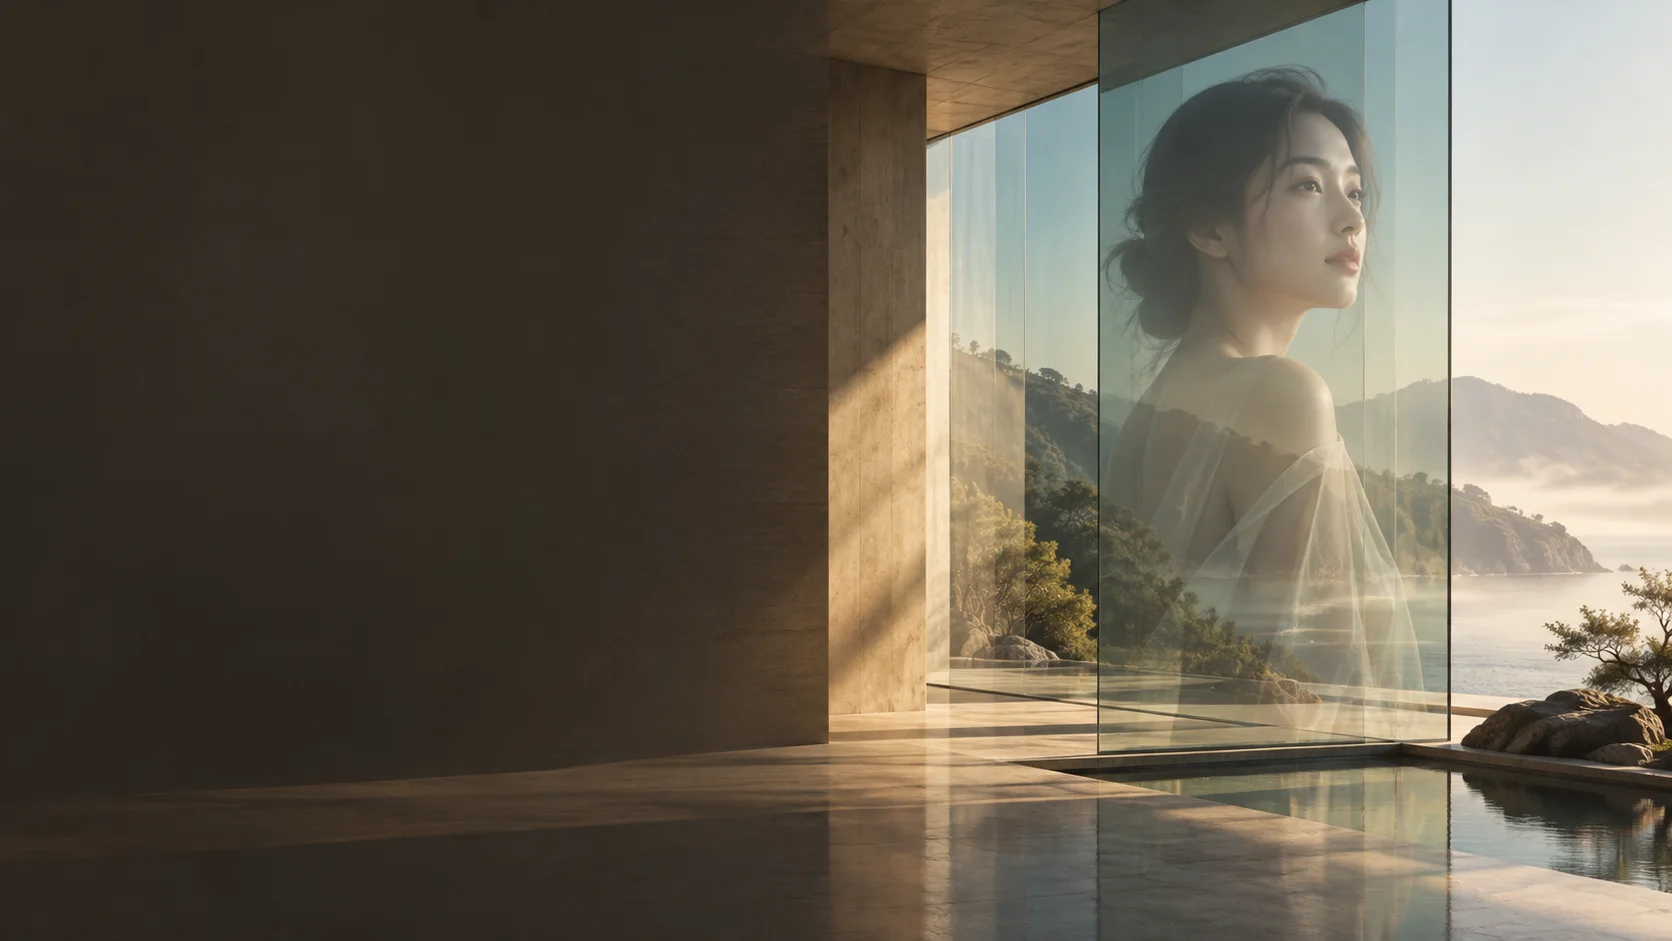
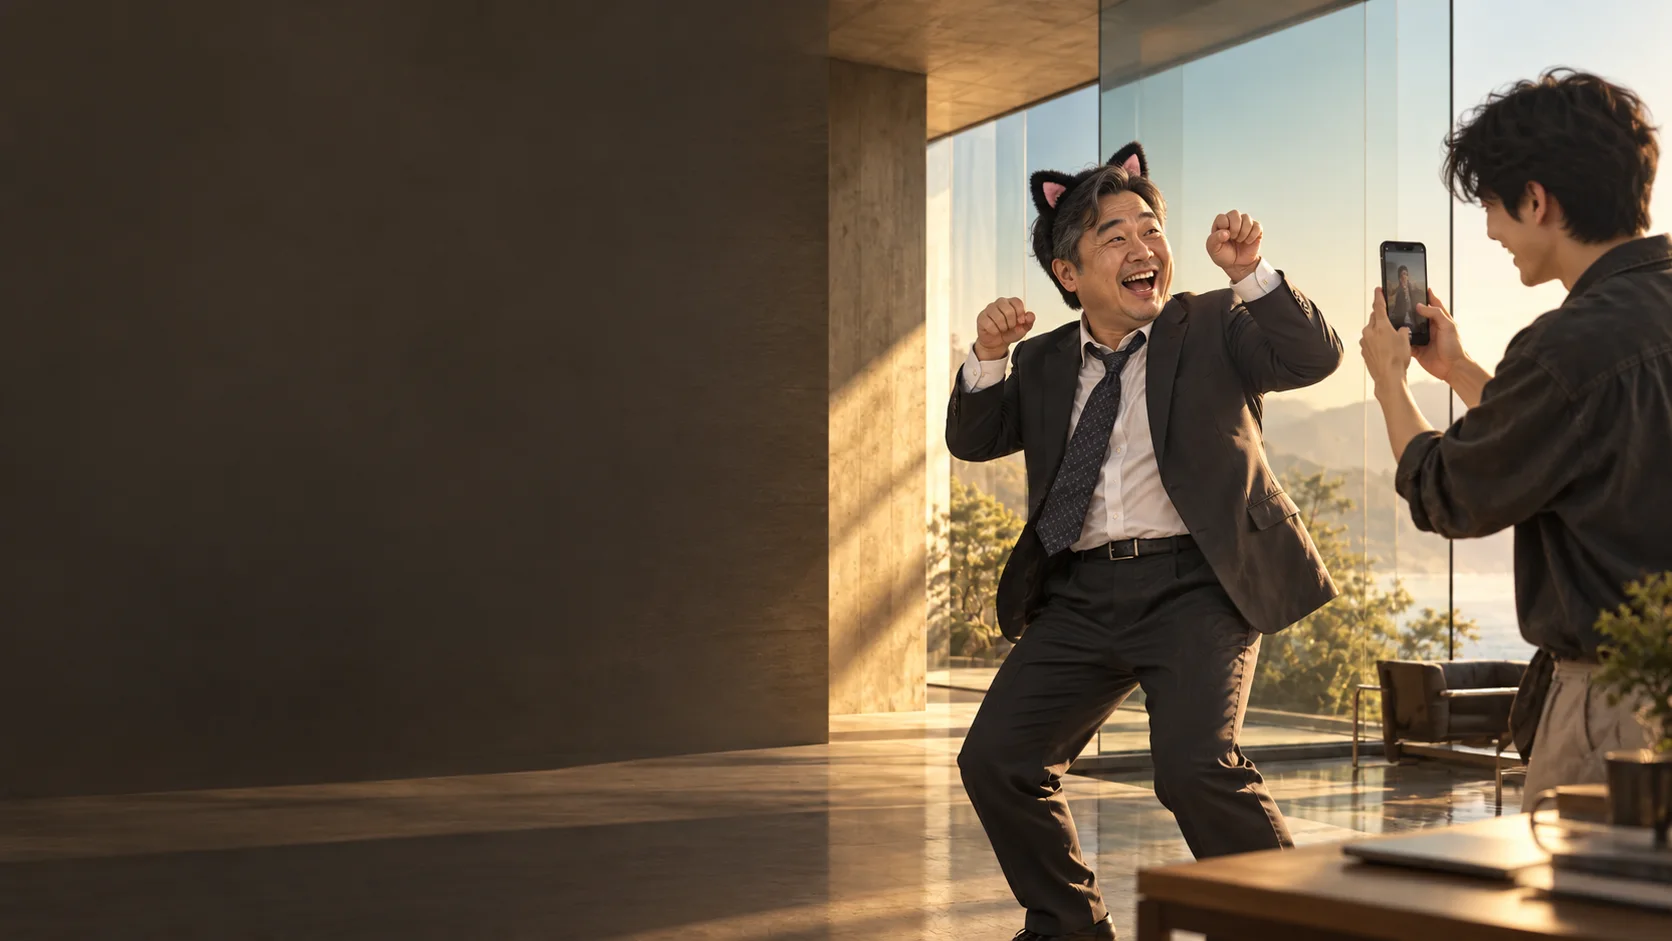
Rebalance homepage layout and improve mobile carousel

diff --git a/app/_home/home.css b/app/_home/home.css
@@ -38,6 +38,9 @@ body { margin: 0; background: #fbf6f2; }
 .ace button { font: inherit; cursor: pointer; }
 .ace :focus-visible { outline: 2px solid var(--ace-orange); outline-offset: 3px; }
 .ace-wrap { width: min(1240px, 100% - 32px); margin-inline: auto; }
+@media (min-width: 1600px) {
+  .ace-wrap { width: min(1680px, 100% - 96px); }
+}
 
 .ace-kicker { margin: 0 0 14px; color: var(--ace-orange-deep); font-family: var(--font-latin), sans-serif; font-size: 13px; font-weight: 600; letter-spacing: .32em; }
 .ace-h1, .ace-h2 { margin: 0; color: var(--ace-ink); font-family: var(--ace-serif); font-weight: 700; letter-spacing: .02em; }
@@ -324,7 +327,7 @@ body { margin: 0; background: #fbf6f2; }
 .ace-poster-4 { background: linear-gradient(150deg, #7ed6d1 0%, #17363c 100%); }
 .ace-poster-5 { background: linear-gradient(150deg, #c9b8a6 0%, #17363c 100%); }
 .ace-stage { --cw: 172px; --ch: 244px; --gap: 16px; --rx: 54%; --rb: 128px; --ease-stage: cubic-bezier(.65, 0, .35, 1);
-  position: relative; overflow: hidden; min-height: 660px; margin-top: clamp(64px, 8vw, 104px); color: #fff; background: var(--ace-ink); }
+  position: relative; overflow: clip; min-height: 660px; margin-top: clamp(64px, 8vw, 104px); color: #fff; background: var(--ace-ink); }
 .ace-stage-bg { position: absolute; inset: 0; z-index: 0; background-image: var(--stage-image); background-size: cover; background-position: var(--stage-position, center); background-repeat: no-repeat; opacity: 0; transition: opacity .3s ease 1.2s; }
 .ace-stage-bg.is-on { z-index: 1; opacity: 1; transition: opacity .5s ease .6s; }
 .ace-stage::after { content: ''; position: absolute; inset: 0; z-index: 2; background: linear-gradient(90deg, rgba(4, 29, 34, .48), rgba(4, 29, 34, .14) 50%, transparent 69%); pointer-events: none; }
@@ -350,7 +353,6 @@ body { margin: 0; background: #fbf6f2; }
 .ace-stage-price s { margin-left: 4px; font-family: var(--font-latin), sans-serif; font-size: 20px; text-decoration-color: var(--ace-orange); text-decoration-thickness: 2px; opacity: .8; }
 .ace-stage-price strong { margin-left: 6px; font-family: var(--font-latin), sans-serif; font-size: clamp(30px, 3.4vw, 42px); font-weight: 600; letter-spacing: .02em; }
 .ace-stage-price small { margin-left: 2px; font-size: 15px; }
-.ace-stage-copied { font-size: 14px; opacity: .85; }
 .ace-stage-kicker { padding-top: 14px; border-top: 2px solid rgba(255, 255, 255, .7); font-size: 15px; letter-spacing: .08em; opacity: .9; }
 .ace-stage-head { display: flex; align-items: center; gap: 18px; }
 .ace-stage-num-big { font-family: var(--font-latin), sans-serif; font-size: clamp(64px, 7vw, 96px); font-weight: 500; line-height: .9; letter-spacing: .04em; }
@@ -358,8 +360,6 @@ body { margin: 0; background: #fbf6f2; }
 .ace-stage-copy h2 { font-family: var(--ace-serif); font-size: clamp(26px, 3.2vw, 44px); font-weight: 700; line-height: 1.2; }
 .ace-stage-copy > p:not([class]) { font-size: 17px; line-height: 1.8; opacity: .92; }
 .ace-stage-controls { position: absolute; z-index: 4; left: var(--rx); right: clamp(16px, 4vw, 48px); bottom: 44px; display: flex; align-items: center; gap: 12px; }
-.ace-stage-controls button { display: grid; place-items: center; width: 52px; height: 52px; border: 1px solid rgba(255, 255, 255, .6); border-radius: 999px; color: #fff; cursor: pointer; transition: background .25s, color .25s; }
-.ace-stage-controls button:hover { background: #fff; color: var(--ace-ink); }
 .ace-stage-progress { flex: 1; height: 2px; margin: 0 12px; background: rgba(255, 255, 255, .3); }
 .ace-stage-progress i { display: block; height: 100%; background: #fff; transition: width .6s var(--ace-ease); }
 .ace-stage-num { font-family: var(--font-latin), sans-serif; font-size: clamp(36px, 4vw, 52px); font-weight: 500; line-height: 1; letter-spacing: .04em; }
@@ -372,7 +372,6 @@ body { margin: 0; background: #fbf6f2; }
   .ace-stage-card-num { font-size: 38px; }
   .ace-stage-card b { font-size: 17px; }
   .ace-stage-controls { left: 16px; right: 16px; bottom: 32px; }
-  .ace-stage-controls button { width: 46px; height: 46px; }
   .ace-stage-copy > p:not([class]) { font-size: 15px; line-height: 1.7; }
   .ace-stage-copy h2 { font-size: 24px; }
   .ace-stage-num-big { font-size: 56px; }
@@ -414,18 +413,19 @@ body { margin: 0; background: #fbf6f2; }
   .ace-shelf-label { padding: 12px 14px 14px; }
   .ace-shelf-label b { font-size: 17px; }
 }
-@media (min-width: 601px) and (max-width: 900px) {
-  .ace-stage-copy > * { max-width: min(42%, 360px); }
-}
-@media (max-width: 600px) {
+@media (max-width: 900px) {
   .ace-stage { min-height: 1000px; background: #092f38; }
   .ace-stage-bg { background-image: var(--stage-mobile-image); background-size: auto 50%; background-position: 72% bottom; }
   .ace-stage-bg.has-mobile-image { background-position: center calc(100% - 115px); }
-  .ace-stage::after { background: linear-gradient(180deg, #092f38 0%, #092f38 48%, rgba(9, 47, 56, .1) 67%, rgba(3, 22, 27, .45) 100%); }
+  .ace-stage::after { background: linear-gradient(180deg, #092f38 0%, #092f38 30%, rgba(9, 47, 56, .1) 52%, rgba(3, 22, 27, .45) 100%); }
   .ace-stage-copy { justify-content: flex-start; gap: 8px; padding-block: 92px 0; }
   .ace-stage-copy > * { max-width: min(100%, 540px); }
   .ace-stage-card { top: calc(100% - 92px - var(--ch)); background-size: auto 100%; background-position: center bottom; }
   .ace-stage-card.is-active { background-size: auto 50%; }
   .ace-stage-card::after { background-size: auto 50%; background-position: 72% bottom; }
   .ace-stage-controls { bottom: 25px; }
+}
+@media (min-width: 601px) and (max-width: 900px) {
+  .ace-stage { min-height: 850px; }
+  .ace-stage-bg.has-mobile-image { background-size: auto 60%; background-position: var(--stage-tablet-position); }
 }

diff --git a/app/_home/home-client.tsx b/app/_home/home-client.tsx
@@ -2,7 +2,7 @@
 
 import { useEffect, useMemo, useRef, useState, type CSSProperties } from 'react';
 import Link from 'next/link';
-import { ArrowRight, Check, ChevronDown, ChevronLeft, ChevronRight, Film, FileText, Gauge, Images, Lightbulb, LayoutTemplate, Mail, Menu, MessageCircle, ShieldCheck, ShoppingBag, Sparkles, X } from 'lucide-react';
+import { ArrowRight, Check, ChevronDown, Film, FileText, Gauge, Images, Lightbulb, LayoutTemplate, Mail, Menu, MessageCircle, ShieldCheck, ShoppingBag, Sparkles, X } from 'lucide-react';
 import { EMAIL, LINE_URL, compareRows, faqGroups, finderGroups, packRules, packs, pains, plans, services, steps, videos, type FinderItem, type Pain, type Plan, type ServiceKey } from './home-data';
 import './home.css';
 
@@ -205,16 +205,18 @@ function Pains() {
   const p = pains[active];
   const v = videos.find(x => x.key === p.video);
   const offer = v ?? (p.market && p.price ? { name: p.tag, market: p.market, price: p.price } : null);
-  const [copied, setCopied] = useState(false);
   const bg = (x: Pain, i: number, big: boolean) => {
     const src = big ? x.image ?? x.thumb : x.thumb ?? x.image;
     return { className: src ? big && x.mobileImage ? 'has-mobile-image' : '' : `ace-poster-${i + 1}`, style: src ? big
-      ? { '--stage-image': `url(${src})`, '--stage-mobile-image': `url(${x.mobileImage ?? src})`, '--stage-position': x.imagePosition ?? 'center' } as CSSProperties
+      ? { '--stage-image': `url(${src})`, '--stage-mobile-image': `url(${x.mobileImage ?? src})`, '--stage-position': x.imagePosition ?? 'center', '--stage-tablet-position': x.tabletImagePosition ?? 'center calc(100% - 40px)' } as CSSProperties
       : { backgroundImage: `url(${src})` } : undefined };
   };
   return (
     <section id="why" className="ace-stage" aria-roledescription="carousel" aria-label="老闆的痛，我們都懂"
-      onMouseEnter={() => setPaused(true)} onMouseLeave={() => setPaused(false)} onFocus={() => setPaused(true)} onBlur={() => setPaused(false)}>
+      onMouseEnter={() => { if (window.matchMedia('(hover: hover) and (pointer: fine)').matches) setPaused(true); }}
+      onMouseLeave={() => setPaused(false)}
+      onFocus={e => { if (e.target.matches(':focus-visible')) setPaused(true); }}
+      onBlur={() => setPaused(false)}>
       {pains.map((x, i) => {
         const b = bg(x, i, true);
         return <div key={x.tag} className={`ace-stage-bg ${b.className}${i === active ? ' is-on' : ''}`} style={b.style} aria-hidden="true" />;
@@ -241,14 +243,9 @@ function Pains() {
             <span>我們只需要 <strong>NT${money(offer.price)}</strong><small>／支</small></span>
           </p>
         )}
-        {offer
-          ? <button className="ace-btn ace-btn-light" onClick={async () => setCopied(await askOnLine(`你好，我想了解 A.C.E. 的${offer.name}（NT$${money(offer.price)}／支）。`))}><MessageCircle size={18} /> LINE 詢問</button>
-          : <a href={p.href} className="ace-btn ace-btn-light">{p.href === '#contact' ? '來聊聊' : `看${p.tag}價格`} <ArrowRight size={18} /></a>}
-        {copied && <p className="ace-stage-copied">詢問內容已複製，到 LINE 貼上即可。</p>}
+        {!offer && <a href={p.href} className="ace-btn ace-btn-light">{p.href === '#contact' ? '來聊聊' : `看${p.tag}價格`} <ArrowRight size={18} /></a>}
       </div>
       <div className="ace-stage-controls">
-        <button aria-label="上一則" onClick={() => go(-1)}><ChevronLeft size={22} /></button>
-        <button aria-label="下一則" onClick={() => go(1)}><ChevronRight size={22} /></button>
         <span className="ace-stage-progress"><i style={{ width: `${((active + 1) / n) * 100}%` }} /></span>
         <span className="ace-stage-num">{active + 1}</span>
       </div>

diff --git a/app/_home/home-data.ts b/app/_home/home-data.ts
@@ -142,12 +142,12 @@ export const videos: Video[] = [
 
 /** 老闆的痛點：為什麼要跟我們合作。href 指向對應的價格。
  *  thumb 是排隊時的小圖、image 是輪到它放大後換上的大圖（放在 public/，沒有就用色塊）。 */
-export type Pain = { tag: string; title: string; body: string; href?: string; video?: Video['key']; market?: number; price?: number; thumb?: string; image?: string; mobileImage?: string; imagePosition?: string };
+export type Pain = { tag: string; title: string; body: string; href?: string; video?: Video['key']; market?: number; price?: number; thumb?: string; image?: string; mobileImage?: string; imagePosition?: string; tabletImagePosition?: string };
 export const pains: Pain[] = [
   { tag: 'AI 剪片', title: '熱門話題等剪完，熱度早就沒了', body: '請一位專職剪輯，又沒有足夠的片量讓他天天剪。交給 AI 剪片，素材丟進來很快就出片，趁話題還熱就上架。', video: 'edit', thumb: '/home/pains/thumbs/ai-edit.webp', image: '/home/pains/ai-edit.webp' },
-  { tag: 'AI 數字人', title: '老闆不好意思露臉', body: '讓大量 AI 數字人幫你介紹、推薦商品。不同人物、不同口吻，打進不同客群。', video: 'ugc', thumb: '/home/pains/thumbs/digital-human.webp', image: '/home/pains/digital-human.webp' },
-  { tag: '狗血劇商品介紹', title: 'AI 短劇正在佔滿大家的碎片時間', body: '別在這波熱潮脫隊。讓霸總拯救少女的時候，順手置入你的品牌商品。', video: 'drama', thumb: '/home/pains/thumbs/drama.webp', image: '/home/pains/drama.webp', mobileImage: '/home/pains/thumbs/drama.webp' },
-  { tag: '真人推薦影片', title: '網友買東西，先看評價', body: '我們安排各種不同身分的真實素人，拍攝你的品牌商品，留下真實的使用心得。', href: '#contact', market: 12000, price: 2500, thumb: '/home/pains/thumbs/real-review.webp', image: '/home/pains/real-review.webp', mobileImage: '/home/pains/thumbs/real-review.webp', imagePosition: 'center bottom' },
+  { tag: 'AI 數字人', title: '老闆不好意思露臉', body: '讓大量 AI 數字人幫你介紹、推薦商品。不同人物、不同口吻，打進不同客群。', video: 'ugc', thumb: '/home/pains/thumbs/digital-human.webp', image: '/home/pains/digital-human.webp', mobileImage: '/home/pains/digital-human-mobile.webp' },
+  { tag: '狗血劇商品介紹', title: 'AI 短劇正在佔滿大家的碎片時間', body: '別在這波熱潮脫隊。讓霸總拯救少女的時候，順手置入你的品牌商品。', video: 'drama', thumb: '/home/pains/thumbs/drama.webp', image: '/home/pains/drama.webp', mobileImage: '/home/pains/thumbs/drama.webp', tabletImagePosition: 'center calc(100% - 140px)' },
+  { tag: '真人推薦影片', title: '網友買東西，先看評價', body: '我們安排各種不同身分的真實素人，拍攝你的品牌商品，留下真實的使用心得。', href: '#contact', market: 12000, price: 2500, thumb: '/home/pains/thumbs/real-review.webp', image: '/home/pains/real-review.webp', mobileImage: '/home/pains/thumbs/real-review.webp', imagePosition: 'center bottom', tabletImagePosition: 'center calc(100% - 120px)' },
   { tag: '網站優化', title: '廣告、KOL 把人帶進賣場，客人卻走了', body: '看不懂你在賣什麼、文不對題、圖也不好看。我們把網站內容改到客人看得懂、願意買。', href: '#offer-optimize', thumb: '/home/pains/thumbs/store-optimization.webp', image: '/home/pains/store-optimization.webp' },
 ];
 
